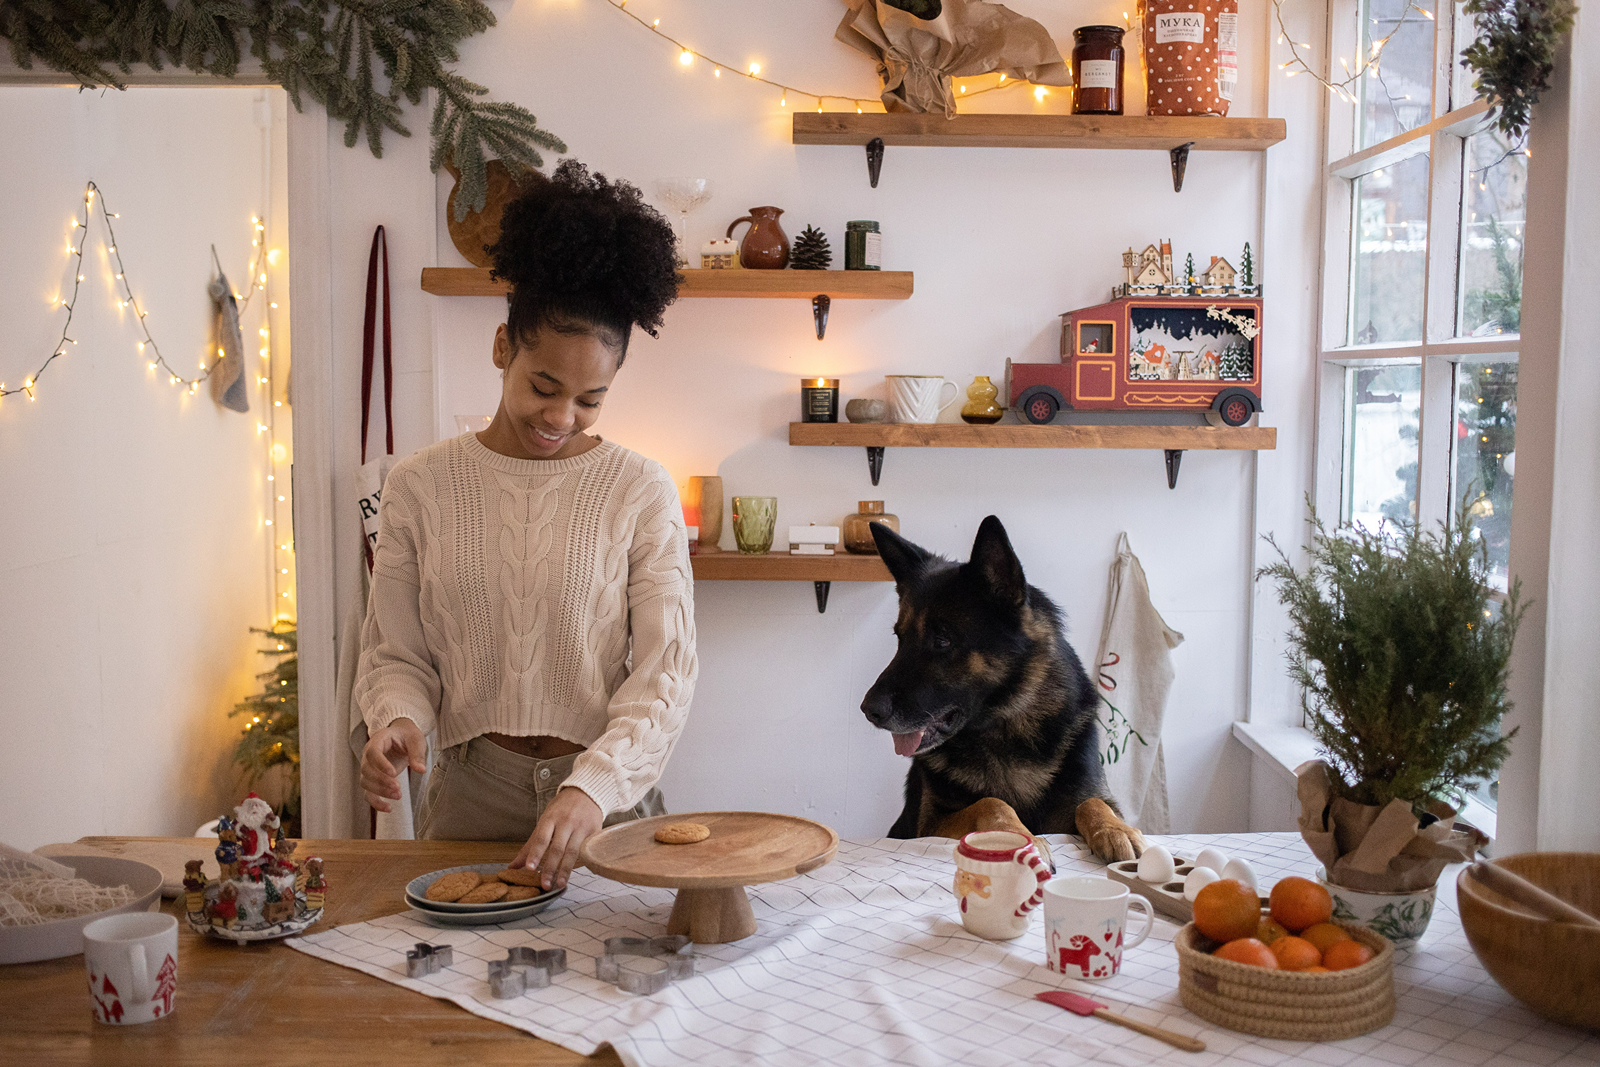
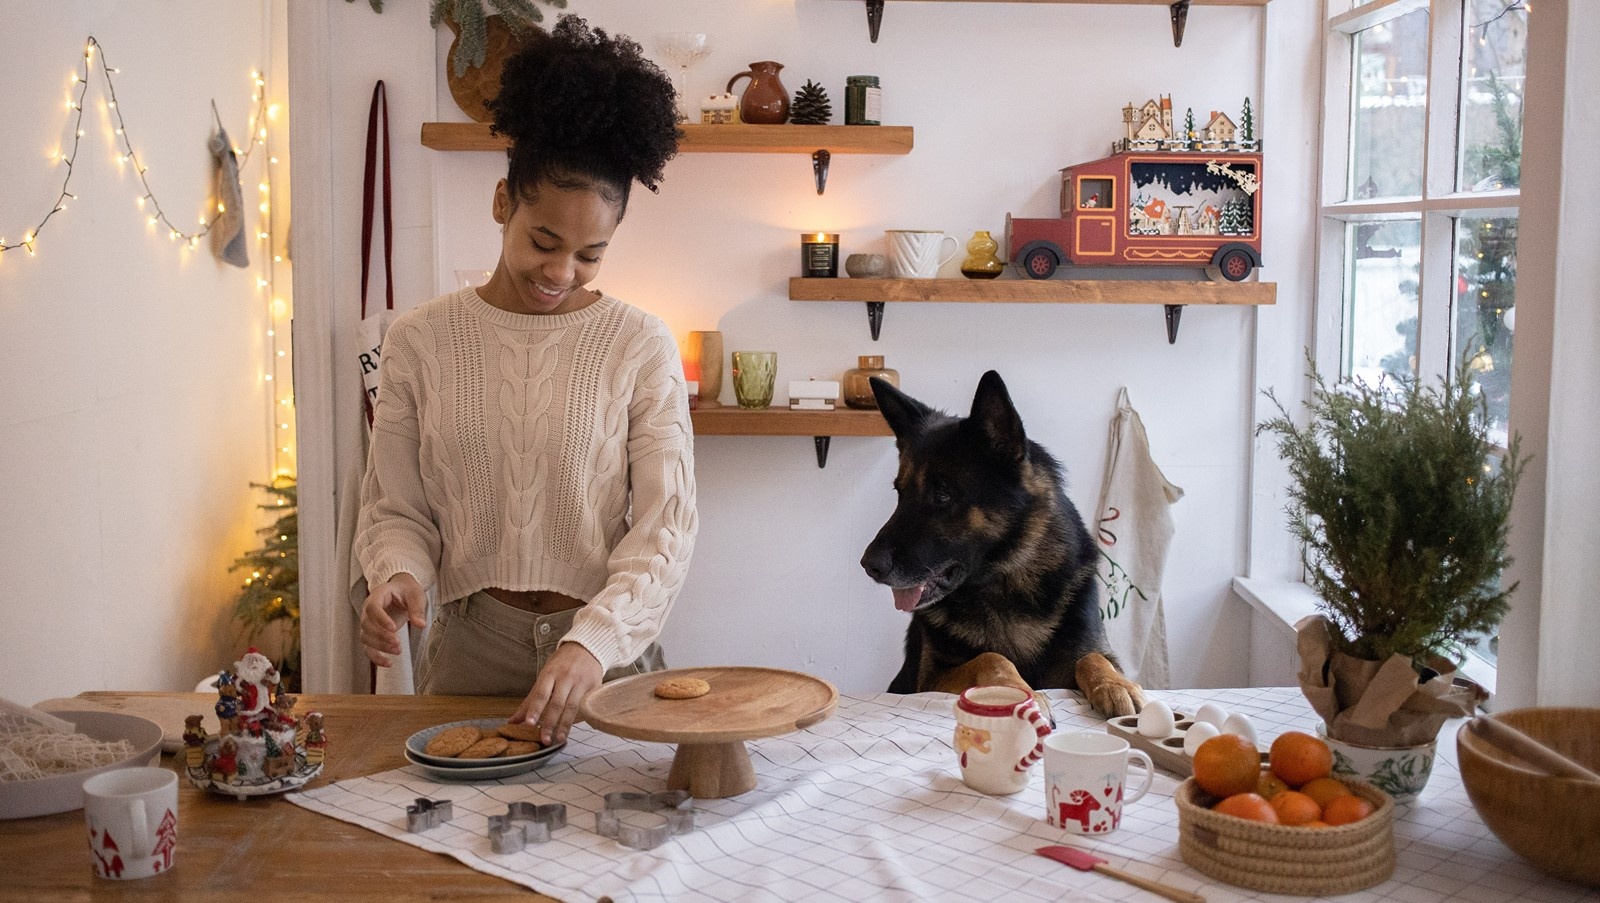
Add resized hero image and change height style rule

diff --git a/assets/css/style.css b/assets/css/style.css
@@ -59,7 +59,7 @@ h1, h2 {
 /* hero image */
 
 #hero-image {
-    height: 1067px;
+    height: 900px;
     width: 100%;
     background: url('../images/hero-image.jpg') no-repeat center center;
     overflow: hidden;
